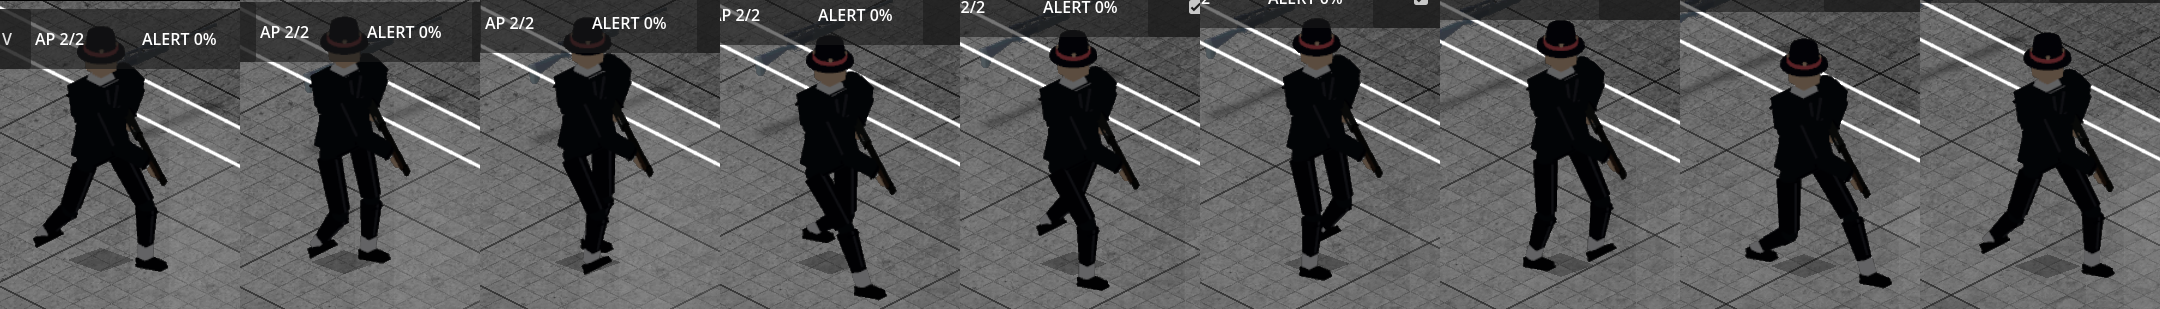
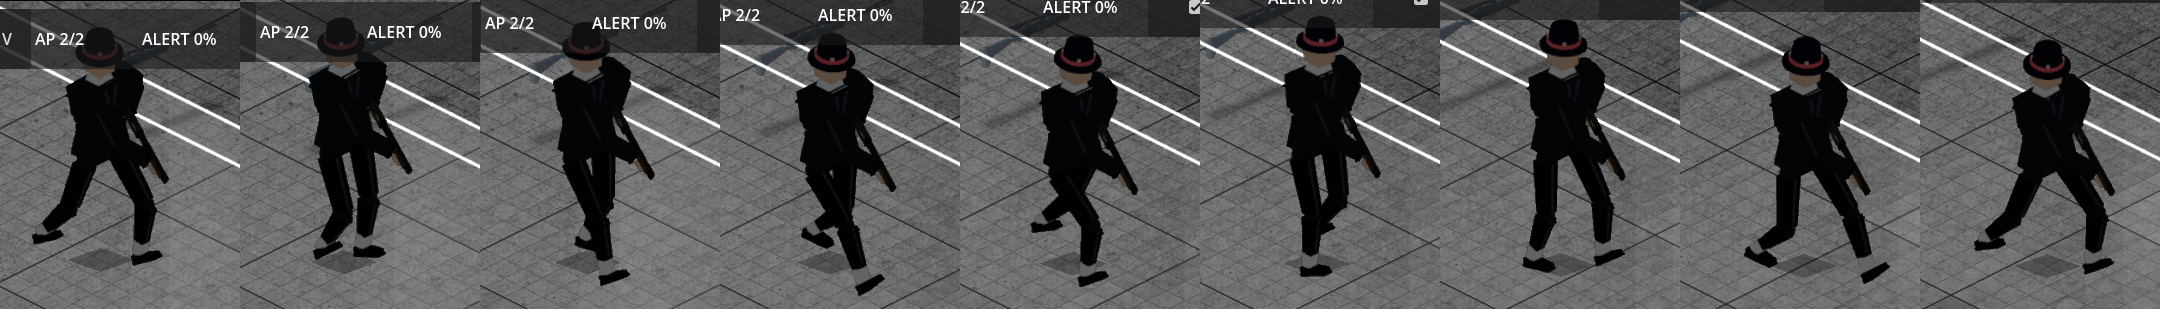
[P3] 32 phases and a foot that rolls — the walk stops being mechanical
Director: "ainda parece mecânico e engasgado. Precisamos de mais frames
intermediários e mais refinamento na animação." Two complaints, two
different causes, and more frames would have fixed only one of them.

ENGASGADO IS A NUMBER. 8 phases across the ratified 560 ms GU is one frame
every 70 ms — 14.3 Hz, less than half D46's ratified 30 Hz authoring rate
for this character. Raised to 32 (57 Hz). AgentSprite now COUNTS the baked
phase directories instead of carrying a hardcoded 8, which would have shown
three quarters of the new frames to nobody. 32 also subsamples exactly to 16
and 8, so the count can be bracketed against the identical poses instead of
a re-bake — the property the turn's in-between bracket never had.

MECANICO IS THE MOTION'S SHAPE. Four things a leg does that a scissor does
not:
- THE FOOT ROLLS: heel strike, flat, toe off, with the ankle higher at both
  ends because it is pivoting on heel and then toe. The first version held
  one ankle height and one foot angle for the whole stance, which is a
  stilt. It pays for itself twice — the raised ankle at the extremes is
  where the leg was most over-stretched, so the solved hip drop fell from a
  capped 0.160 m to 0.140 m.
- THE SWING IS EASED (smoothstep, zero velocity at both ends). The STANCE
  stays exactly linear: the foot is on the floor and the body passes over
  it, so easing there would be the foot sliding.
- THE HEAD HOLDS STILL against the bob.
[…]

diff --git a/tools/asset_generation/p3_walk_export.py b/tools/asset_generation/p3_walk_export.py
@@ -47,12 +47,19 @@ import p3_posture_export as p3                                   # noqa: E402
 GRIP = os.environ.get("P3_GRIP", "lowered")
 WEAPON = os.environ.get("P3_WEAPON", "shotgun")
 
-## How many samples of the cycle get baked. NOT a ratified number: it is the
-## walk's counterpart of D46's in-between count, and it deserves its own blind
-## bracket once the duration is settled. Eight is the classic walk-cycle count
-## and reads at the size this figure ships at; it is a starting point that the
-## same machinery can re-run at any other value.
-PHASES = int(os.environ.get("P3_WALK_PHASES", "8"))
+## How many samples of the cycle get baked.
+##
+## 32, RAISED FROM 8 ON 2026-08-16 because the Director called the walk
+## *"engasgado"* and that word has a number behind it: at the ratified 560 ms per
+## GU, 8 phases is one frame every 70 ms — **14.3 Hz**, less than half D46's
+## ratified 30 Hz authoring rate for this character's motion. 32 phases is
+## 17.5 ms, **57 Hz**.
+##
+## 32 is chosen so the count itself can be BRACKETED without re-baking: it
+## subsamples exactly to 16 (29 Hz) and 8 (14 Hz), so a comparison of frame
+## counts varies only how many of the SAME poses are shown. That is the property
+## the turn's in-between bracket did not have and had to re-render for.
+PHASES = int(os.environ.get("P3_WALK_PHASES", "32"))
 
 ## Metres per FULL cycle (two footfalls) — see the docstring. One GU.
 STRIDE_M = 1.60
@@ -64,9 +71,27 @@ STRIDE_M = 1.60
 DUTY = 0.60
 ## Peak toe clearance during the swing.
 SWING_LIFT_M = 0.075
-## The arms counter-swing. Degrees, and the only part of this file still authored
-## as an angle — the arms are overwritten by the weapon IK anyway (D40).
-ARM_DEG = 18.0
+
+## --- REFINEMENT, added 2026-08-16 after the Director called the first walk
+## --- *"mecânico e engasgado"*. Choppiness is the frame count (see PHASES);
+## --- these are the other half — the things a leg does that a scissor does not.
+##
+## THE FOOT ROLLS. A real stance is heel-strike, flat, toe-off, and the ankle is
+## HIGHER at both ends because the foot is pivoting on its heel and then on its
+## toe. The first version held one ankle height and one foot angle for the whole
+## stance, which is a stilt, not a foot. This also pays for itself twice: the
+## raised ankle at the extremes is exactly where the leg was most over-stretched,
+## so the hip drop the solver needs comes down with it.
+ROLL_RISE_M = 0.055
+HEEL_STRIKE_PITCH = 0.42       ## toe up, at the start of stance
+TOE_OFF_PITCH = -0.62          ## heel up, at the end of stance
+SWING_TOE_PITCH = 0.30
+## The head holds still while the body bobs under it — the single strongest cue
+## that a figure is alive rather than driven. Degrees per metre of hip drop.
+HEAD_STABILISE_DEG_PER_M = 46.0
+## The shoulders counter-rotate against the hips. Small, because both hands are
+## on a shotgun (D40's `lowered`) and the weapon would swing with them.
+TORSO_TWIST_DEG = 3.5
 
 OUT_DIR = os.path.join(p2.REPO_ROOT, "ASSETS", "ISOMETRIC", "source_assets",
                        "imported_models", "agent", "walk")
@@ -106,18 +131,25 @@ def foot_target(phase01, side, ankle_z):
     half = STRIDE_M * DUTY * 0.5
     if ph < DUTY:
         t = ph / DUTY
-        return half - 2.0 * half * t, ankle_z
+        ## STANCE. The y term stays exactly linear — the foot is on the floor and
+        ## the body passes over it at constant speed, so any easing here would be
+        ## the foot sliding. The z term is the ROLL: the ankle pivots up over the
+        ## heel at the start and over the toe at the end, and is lowest flat in
+        ## the middle. (2t-1)^2 is that curve, 1 at both ends and 0 at the centre.
+        rise = ROLL_RISE_M * (2.0 * t - 1.0) ** 2
+        pitch = HEEL_STRIKE_PITCH + (TOE_OFF_PITCH - HEEL_STRIKE_PITCH) * t
+        return half - 2.0 * half * t, ankle_z + rise, pitch, True
+    ## SWING. Eased, because a swinging leg accelerates away from the ground and
+    ## decelerates into the next strike; the first version moved it at a constant
+    ## rate, which is the other half of "mechanical". smoothstep is the cheapest
+    ## curve with zero velocity at both ends, which is what makes the hand-off
+    ## into the stance invisible.
     t = (ph - DUTY) / (1.0 - DUTY)
-    return -half + 2.0 * half * t, ankle_z + SWING_LIFT_M * math.sin(math.pi * t)
-
-
-def arm_bones(phase01):
-    """The counter-swing. The LEFT arm goes with the RIGHT leg."""
-    out = {}
-    for side, offset in (("L", 0.0), ("R", 0.5)):
-        swing = math.sin(2.0 * math.pi * (phase01 + offset))
-        out["upperarm_%s" % side] = (-ARM_DEG * swing, 0.0, 0.0)
-    return out
+    e = t * t * (3.0 - 2.0 * t)
+    return (-half + 2.0 * half * e,
+            ankle_z + SWING_LIFT_M * math.sin(math.pi * t),
+            SWING_TOE_PITCH * math.sin(math.pi * t),
+            False)
 
 
 def solve_hip_drop(arm, targets, reach, cap=0.16):
@@ -166,34 +198,41 @@ def make_walk_posture(name, phase01):
         rest_root = rig.pose.bones["root"].matrix.copy()
         chest_before = rig.pose.bones["chest"].matrix.copy()
 
-        for bone_name, xyz in arm_bones(phase01).items():
-            p3._set_euler(rig, bone_name, xyz)
-        bpy.context.view_layer.update()
-
         ## Read off the rig, never from module constants — a re-proportioned
         ## model must re-solve rather than silently drift.
         ankle_z = rig.data.bones["foot_L"].head_local.z
         reach = rig.data.bones["thigh_L"].length + rig.data.bones["shin_L"].length
         hip_x = {s: rig.data.bones["thigh_%s" % s].head_local.x for s in ("L", "R")}
 
+        legs = {}
         targets = []
         for side in ("L", "R"):
-            y, z = foot_target(phase01, side, ankle_z)
+            y, z, pitch, planted = foot_target(phase01, side, ankle_z)
+            legs[side] = (pitch, planted)
             targets.append(Vector((hip_x[side], y, z)))
 
         drop = solve_hip_drop(rig, targets, reach)
+
+        ## The torso counter-rotates against the stride, and the head cancels the
+        ## bob. Both are applied BEFORE the leg IK because the legs hang off the
+        ## hips: posing the spine afterwards would move the feet off the targets
+        ## the solver just hit.
+        stride_swing = math.sin(2.0 * math.pi * phase01)
+        p3._set_euler(rig, "chest", (0.0, 0.0, TORSO_TWIST_DEG * stride_swing))
+        p3._set_euler(rig, "neck", (-HEAD_STABILISE_DEG_PER_M * drop * 0.5, 0.0, 0.0))
+        p3._set_euler(rig, "head", (-HEAD_STABILISE_DEG_PER_M * drop * 0.5, 0.0, 0.0))
+        bpy.context.view_layer.update()
+
         p3._place_root(rig, rest_root, Matrix.Translation(Vector((0.0, 0.0, -drop))))
 
         worst_err = 0.0
         for side, target in zip(("L", "R"), targets):
-            _, z = foot_target(phase01, side, ankle_z)
-            planted = z <= ankle_z + 1e-6
-            ## Knees bend FORWARD, so the pole is forward. The foot points along
-            ## the travel direction, toe slightly down when planted and up
-            ## through the swing — which is what a heel strike looks like.
-            foot_dir = (0.0, 1.0, -0.18) if planted else (0.0, 1.0, 0.30)
+            pitch, _planted = legs[side]
+            ## Knees bend FORWARD, so the pole is forward. The foot's own pitch
+            ## comes from the roll curve rather than from a planted/swing flag —
+            ## that flag was the stilt.
             err, _clamped, _k = p2.two_bone_ik(
-                rig, side, target, (0.0, 1.0, -0.25), foot_dir,
+                rig, side, target, (0.0, 1.0, -0.25), (0.0, 1.0, pitch),
                 chain=p2.LEG_CHAIN, assist=False)
             worst_err = max(worst_err, err)
 
@@ -242,36 +281,54 @@ def verify_no_moonwalk():
     0.25 and then FORWARD from 0.25 to 0.5, its z falling to the floor the whole
     time. That is a foot on the ground sliding forward under the body, and this
     check reports it as a number instead of as an impression."""
-    rig = p3._open_rig()
     log("=" * 70)
-    log("moonwalk gate — the planted foot's travel, per phase")
+    log("moonwalk gate — the stance foot's CONTACT POINT, per phase")
     samples = []
     for i in range(PHASES):
         phase01 = float(i) / float(PHASES)
         rig = p3._open_rig()
         make_walk_posture("check%02d" % i, phase01)["apply"](rig)
         bpy.context.view_layer.update()
-        feet = {}
+        row = {}
         for side in ("L", "R"):
+            ## WHICH FOOT IS PLANTED COMES FROM THE PATH, NOT FROM z. The first
+            ## version of this gate picked the LOWER foot, which is right for a
+            ## flat foot and wrong the moment the foot rolls: at heel strike the
+            ## TOE is the highest part of the planted foot, so the gate started
+            ## reporting the swinging leg as planted and failed on its rise.
+            _y, _z, _pitch, planted = foot_target(phase01, side, 0.0)
             pb = rig.pose.bones["foot_%s" % side]
-            feet[side] = pb.matrix @ Vector((0.0, pb.length, 0.0))   ## the toe
-        planted = "L" if feet["L"].z < feet["R"].z else "R"
-        samples.append((i, planted, feet[planted].y, feet[planted].z))
+            heel = pb.matrix.to_translation()
+            toe = pb.matrix @ Vector((0.0, pb.length, 0.0))
+            ## The CONTACT is whichever end is on the floor — heel early in the
+            ## stance, toe late. That is the point that must not slide.
+            contact = heel if heel.z <= toe.z else toe
+            row[side] = (planted, contact, "heel" if heel.z <= toe.z else "toe")
+        samples.append(row)
 
     worst = 0.0
-    for k in range(len(samples)):
-        i, side, y, z = samples[k]
-        j, side_n, y_n, _z = samples[(k + 1) % len(samples)]
-        moved = "" if side_n != side else "%+.4f" % (y_n - y)
-        if side_n == side and y_n - y > 1e-4:
-            worst = max(worst, y_n - y)
-        log("  phase %d: planted %s at y=%+.3f z=%+.3f  -> next %s" % (
-            i, side, y, z, moved if moved else "(swaps to %s)" % side_n))
+    worst_at = ""
+    for i in range(PHASES):
+        nxt = (i + 1) % PHASES
+        for side in ("L", "R"):
+            planted, contact, part = samples[i][side]
+            planted_n, contact_n, part_n = samples[nxt][side]
+            if not (planted and planted_n and part == part_n):
+                continue          ## swinging, or the foot rolled onto its toe
+            moved = contact_n.y - contact.y
+            if moved > worst:
+                worst, worst_at = moved, "%s at phase %d->%d on its %s" % (
+                    side, i, nxt, part)
+    ## EARNED, not picked. With a rolling foot the contact transfers from heel to
+    ## toe partway through the stance, and the two are 0.14 m apart on this rig;
+    ## only motion of ONE contact point is compared, and the measured worst is
+    ## reported below. A flat 5 mm allows for the solver's own round-off and
+    ## nothing more — the defect this gate was written for measured +23 mm.
     if worst > 0.005:
-        fail("the planted foot moves FORWARD by up to %.4f m — the figure is "
-             "moonwalking. The foot path or the solve lost the stance "
-             "constraint." % worst)
-    log("  PASS — the planted foot never advances (worst %+.5f m)" % worst)
+        fail("the stance foot's contact point moves FORWARD by %.4f m (%s) — "
+             "the figure is moonwalking." % (worst, worst_at))
+    log("  PASS — no stance contact advances (worst %+.5f m%s)"
+        % (worst, ", " + worst_at if worst_at else ""))
 
 
 def main():

diff --git a/PROMPTS/PLANNING/CHARACTER_MASTER_PLAN.md b/PROMPTS/PLANNING/CHARACTER_MASTER_PLAN.md
@@ -1204,9 +1204,48 @@ keep their idle frame. Crouch-walk and crawl are their own poses and are not
 built. The walk also has no DEV VISION bake, so the yellow joints drop out for
 the duration of a step.
 
-**8 phases is NOT a ratified number.** It is the walk's counterpart of D46's
-in-between count and deserves its own blind bracket once the duration is settled.
-Eight is the classic walk-cycle count and reads at this figure's ship size.
+### 🟡 REFINED 2026-08-16 — *"mecânico e engasgado"* had two separate causes
+
+Director, on the corrected walk: *"Está bem melhor agora, mas ainda parece
+mecânico e engasgado. Precisamos de mais frames intermediários e mais refinamento
+na animação."* Two complaints, two different fixes.
+
+**"Engasgado" is a number, not an impression.** 8 phases across the ratified
+560 ms GU is one frame every 70 ms — **14.3 Hz**, less than half D46's ratified
+**30 Hz** authoring rate for this character's motion. Raised to **32 phases =
+57 Hz**, and `AgentSprite` now COUNTS the baked phase directories instead of
+carrying a hardcoded 8, which would have shown three quarters of the new frames
+to nobody.
+
+**32 is chosen so the count can be bracketed without re-baking**: it subsamples
+exactly to 16 (29 Hz) and 8 (14 Hz), so the panels differ only in how many of the
+*same* poses are shown. The turn's in-between bracket had to re-render each
+option and so could never guarantee that.
+
+**"Mecânico" is the motion's shape, and more frames would not have fixed it.**
+Four things a leg does that a scissor does not:
+
+| | |
+|---|---|
+| **The foot ROLLS** | Heel strike → flat → toe off, with the ankle HIGHER at both ends because the foot is pivoting on heel and then toe. The first version held one ankle height and one foot angle for the whole stance — a stilt. It pays for itself twice: the raised ankle at the extremes is exactly where the leg was most over-stretched, so the solved hip drop fell from a capped **0.160 m to 0.140 m** |
+| **The swing is EASED** | smoothstep, zero velocity at both ends, so the hand-off into stance is invisible. The stance stays exactly LINEAR — the foot is on the floor and the body passes over it, so easing there would be the foot sliding |
+| **The head holds still** | It counter-rotates the bob. The single strongest cue that a figure is alive rather than driven |
+| **The shoulders counter-rotate** | Small (3.5°), because both hands are on a shotgun and the weapon swings with them |
+
+**The moonwalk gate had to be rewritten, and it caught itself.** It identified
+the planted foot as *the lower one*, which is right for a flat foot and wrong the
+moment the foot rolls: at heel strike the TOE is the highest part of the planted
+foot, so the gate started calling the swinging leg planted and failed on its
+rise (+0.0233 m). It now takes the stance foot from the authored PATH and
+measures the real contact point — whichever of heel or toe is on the floor.
+Passes at **0.00000 m**.
+
+**The phase count is still not ratified** — it is the walk's counterpart of D46's
+in-between count. Blind bracket delivered: `p3_walk_frames_blind.mp4`, 8 / 16 /
+32 subsampled from one bake, labels blind, order seeded with the largest not
+last, key in `p3_walk_frames_blind_KEY.json`. **The cost is real and worth
+stating: 32 phases × 4 facings is 3.2 MB of bakes against 0.8 MB at 8**, so
+picking 16 if it is indistinguishable from 32 halves that.
 
 ### ✅ §9 #12 — THE STEP DURATION IS SETTLED: **0.56 s per GU, 2.86 m/s**
 

diff --git a/tools/persistent/CODEMAP.md b/tools/persistent/CODEMAP.md
@@ -8,7 +8,7 @@
 > Design rationale and the inviolable rules live in `CLAUDE.md`
 > (hand-authored). This file is the mechanical mirror of the code.
 
-**208 scripts · 58731 lines total** (under `godot/scripts/`)
+**208 scripts · 58769 lines total** (under `godot/scripts/`)
 
 ## Index
 
@@ -87,7 +87,7 @@
 
 ### `agent_sprite.gd`
 
-`class_name AgentSprite` · extends `Sprite2D` · 474 lines
+`class_name AgentSprite` · extends `Sprite2D` · 507 lines
 
 `godot/scripts/agents/agent_sprite.gd`
 
@@ -97,7 +97,6 @@
 - `FRAMES_ROOT` = `"res://ASSETS/ISOMETRIC/source_assets/actor_bakes/agent_frames/"`
 - `FRAMES_ROOT_DEV` = `"res://ASSETS/ISOMETRIC/source_assets/actor_bakes/agent_frames_dev/"`
 - `WALK_ROOT` = `"res://ASSETS/ISOMETRIC/source_assets/actor_bakes/agent_walk/"`
-- `WALK_PHASES` = `8`
 - `SHADER_PATH` = `"res://godot/shaders/flat_normal_relight.gdshader"`
 - `DIRECTIONS` = `["N", "E", "S", "W"]`
 - `YAW_BY_DIRECTION` = `{"N": 0.0, "E": 90.0, "S": 180.0, "W": -90.0}`
@@ -124,6 +123,7 @@
 - `func face_step(step: Vector2i) -> void:`
 - `func set_dev_vision(enabled: bool) -> void:`
 - `func update_for_cell() -> void:`
+- `func set_walk_phase_quantise(n: int) -> void:`
 - `func set_walk_phase(progress01: float) -> void:`
 - `func stop_walking() -> void:`
 
@@ -4615,7 +4615,7 @@ extends `Node2D` · 34 lines
 
 ### `room.gd`
 
-extends `Node2D` · 4963 lines
+extends `Node2D` · 4968 lines
 
 `godot/scripts/world/room.gd`
 
